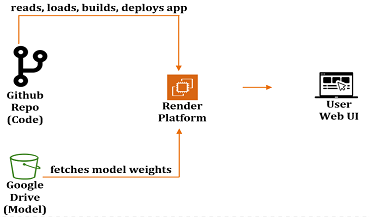
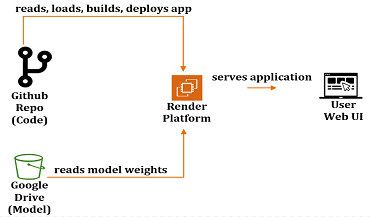
update cats dog classifier cnn link image

Changed region(s): [[0.0, 0.0, 0.9811, 0.9954]]

diff --git a/index.html b/index.html
@@ -76,7 +76,7 @@ Building scalable AI systems and data-driven solutions.</h1>
 							<article class="col-6 col-12-xsmall work-item">
 								<ul class="actions">
 									<li>
-										<a href="https://github.com/babasamo2001/dogs-cats-classifier.git" target="_blank"><img class="image fit thumb" src="images/catsdogsclassifiercnn.PNG" alt="" />Dogs and Cats Classification App</a>
+										<a href="https://github.com/babasamo2001/dogs-cats-classifier.git" target="_blank"><img class="image fit thumb" src="images/catsdogs classifiers transfers.PNG" alt="" />Dogs and Cats Classification App</a>
 									</li>
 								</ul>
 								<ul class="actions">